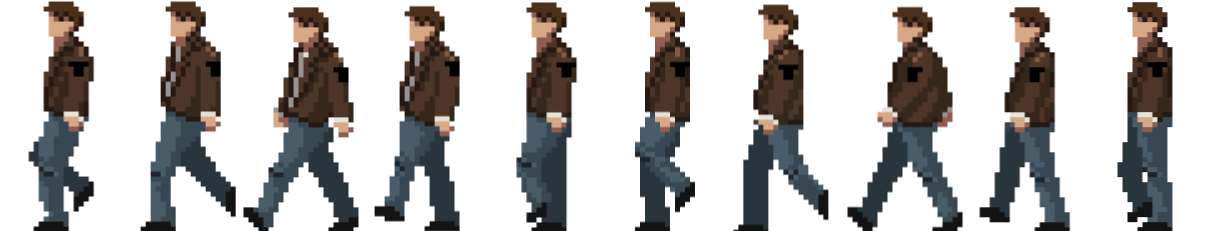
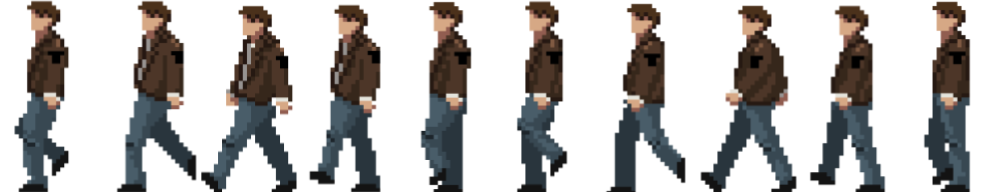
Animation frames

diff --git a/JavaScript_game/guy.js b/JavaScript_game/guy.js
@@ -1,77 +1,145 @@
 
-export {playerWidth, playerHeight, playerPosition, drawAnimatedPlayerImage };
+export { playerWidth, playerHeight, playerPosition, drawAnimatedPlayerImage };
 import {
-    dx, dy
-     } from "./input.js";
+  dx, dy
+} from "./input.js";
 
-    
-const playerStartFramesX = [0, 123, 246, 369, 492, 615, 738, 861, 984, 1107];
-const playerStartFramesY = [0, 231, 462, 693, 924];
+
+const playerStartFramesX = [0, 100, 200, 300, 400, 500, 600, 700, 800, 900];
+const playerStartFramesY = [0];
 const frameAmount = 10;
+let isMoving = false;
+let lookingLeft = true;
+const guyAnimationList = {
+  walkLeft: "/images/guy-walk-left.png",
+  walkRight: "/images/guy-walk-right.png",
+  idleLeft: "/images/guy-idle-left.png"
+};
 
 let canvas = document.getElementById("gameCanvas"); // Set initial value
 let ctx = canvas.getContext("2d");
 
 const player = new Image();
-player.src = "/images/guy-walk-right.png";
+player.src = guyAnimationList.idleLeft;
 
 // ............... PLAYER ............... //
-let playerWidth = 123;
-let playerHeight = 231;
+let playerWidth = 100;
+let playerHeight = 191;
 let startFrameIndex = 0;
 let timer = 0;
 
 const playerPosition = {
-    x: 0,
-    y: 0
-  };
+  x: 0,
+  y: 0
+};
 
+function controlPlayerX(positionX) {
+  if(!isMoving) {
+  if (lookingLeft) {
+    return positionX;
+  } else {
+    return -positionX-player.width/2; // Otherwise it translates the player too far from the current x-position
+  }
+}
+else {
+  return positionX;
+}
+
+}
 function drawAnimatedPlayerImage(x, y) {
   // INFO: Clear the drawn image in one frame using the area defined with parameters:
   ctx.clearRect(x, y, playerWidth, playerHeight);
 
   playerWidth = 60;
   playerHeight = 60;
+
   let yIndex;
+
   switch (true) {
-    case dy < 0:
-      yIndex = 1;
-      break;
-    case dy > 0:
-      yIndex = 2;
-      break;
-    case dx < 0:
+    case dx < -0.01:
+      console.log("left" + "dx: " + dx);
+      lookingLeft = true;
+      isMoving = true;
       yIndex = 0; // Left animation
-      player.src = "/images/guy-walk-left.png";
+      if (player.src !== guyAnimationList.walkLeft) {
+        player.src = guyAnimationList.walkLeft;
+      }
       break;
-    case dx > 0:
+    case dx > 0.01:
+      console.log("right" + "dx: " + dx);
+      lookingLeft = false;
+      isMoving = true;
       yIndex = 0; // Right animation
-      player.src = "/images/guy-walk-right.png";
+      if (player.src !== guyAnimationList.walkRight) {
+        player.src = guyAnimationList.walkRight;
+      }
       break;
     default:
+      console.log("idle!" + "dx: " + dx + " lookingLeft = " + lookingLeft);
+      isMoving = false;
+      x
       yIndex = 0; // Default animation (no movement)
+      startFrameIndex = 0;
+      if (player.src !== guyAnimationList.idleLeft) {
+        player.src = guyAnimationList.idleLeft;
+      }
+
       break;
   }
+
+  ctx.save();
+  if(!isMoving) {
+  if (lookingLeft) {
+    ctx.scale(1, 1);
+  }
+  else {
+    ctx.scale(-1, 1);// Flip horizontally
+  }
+}
+
+  //ctx.translate(-canvas.width, 0); // Adjust for flipped image
   ctx.drawImage(
     player,
     playerStartFramesX[startFrameIndex],
     playerStartFramesY[yIndex],
-    123,
-    231,
-    x,
-    y,
+    100,
+    191,
+    controlPlayerX(x),
+    300,
     playerWidth,
     playerHeight
   );
 
-  // Create animation on the lower Player:
-  timer++;
-  if (timer >= 10) {
-    timer = 0;
-    startFrameIndex++;
+  ctx.restore(); // Restore the state
+  // Loop animation frames
+  // We avoid the moonwalk by reversing the frame calculation on walking left 
+  // (since it's a mirror image of walking right)
+  if (isMoving) {
+    timer++;
+    if (timer >= 10) {
+      timer = 0;
+      if (lookingLeft) {
+        startFrameIndex--;
+        if (startFrameIndex < 0) {
+          startFrameIndex = frameAmount - 1;
+        }
+      } else {
+        startFrameIndex++;
+        if (startFrameIndex >= frameAmount) {
+          startFrameIndex = 0;
+        }
+      }
+    }
   }
 
-  if (startFrameIndex == 10) {
-    startFrameIndex = 0;
-  }
+  // if (isMoving) {
+  //   timer++;
+  //   if (timer >= 10) {
+  //     timer = 0;
+  //     startFrameIndex++;
+  //   }
+  //   if (startFrameIndex === frameAmount) {
+  //     startFrameIndex = 0;
+  //   }
+  // }
 }

diff --git a/JavaScript_game/javascript.js b/JavaScript_game/javascript.js
@@ -1,31 +1,5 @@
-//alert(word); 
-
-let word = "Huhheijaa!";
-const fixedWord = "Laki";
-
-let isAlive = true;
-
-let magicNumber = 0;
-console.log(magicNumber);
-magicNumber = magicNumber + 24; // lisätään 0:aan 24
-console.log(magicNumber);
-magicNumber++; // lisätään ykkönen
-console.log(magicNumber);
-magicNumber--; // vähennetään ykkönen
-console.log(magicNumber);
-
-function PopUpper() {
-    //alert(magicNumber);
-
-for(i=0;i<100;i++) {
-    console.log(magicNumber);
-}
-
-}
-function DivController() {
-    document.getElementById("middlediv").style.height = "400px";
-    document.getElementById("middlediv").style.backgroundColor = "#000100";
-}
-//PopUpper();
-
-
+window.addEventListener('load', (event) => {
+    document.body.style.display = 'block';
+    document.getElementById('gameCanvas').style.display = 'block';
+    console.log("Document loaded");
+});

diff --git a/JavaScript_game/style.css b/JavaScript_game/style.css
@@ -6,6 +6,10 @@ body, html {
     overflow: hidden;
     background-color: rgb(23, 23, 73);
 }
+body {
+    display: none;
+}
+
 
 #middlediv {
     width : inherit;
@@ -15,16 +19,16 @@ body, html {
 }
 
 #gameCanvas {
-    display: block;
+    display: none;
     margin: 0 auto;
-    width: 100%;
-    height: 100%;
+    width: 1200px;
+    height: 950px;
     border: 5px solid black;
     /* background-color: rgb(64, 26, 26); */
     /*Backgroundissa voi olla useampia layereita: */
     background: linear-gradient(
-         rgba(255, 4, 4, 0.5), rgba(255, 0, 242, 0.9))
-    , url(background.jpg);
+         rgba(243, 243, 243, 0), rgba(78, 94, 236, 0))
+    , url(/images/background-images/forest.jpeg);
 }
 
 #middlediv:hover {

diff --git a/JavaScript_game/javascript-testin.js b/JavaScript_game/javascript-testin.js
@@ -1,0 +1,31 @@
+//alert(word); 
+
+let word = "Huhheijaa!";
+const fixedWord = "Laki";
+
+let isAlive = true;
+
+let magicNumber = 0;
+console.log(magicNumber);
+magicNumber = magicNumber + 24; // lisätään 0:aan 24
+console.log(magicNumber);
+magicNumber++; // lisätään ykkönen
+console.log(magicNumber);
+magicNumber--; // vähennetään ykkönen
+console.log(magicNumber);
+
+function PopUpper() {
+    //alert(magicNumber);
+
+for(i=0;i<100;i++) {
+    console.log(magicNumber);
+}
+
+}
+function DivController() {
+    document.getElementById("middlediv").style.height = "400px";
+    document.getElementById("middlediv").style.backgroundColor = "#000100";
+}
+//PopUpper();
+
+

diff --git a/JavaScript_game/input.js b/JavaScript_game/input.js
@@ -5,8 +5,8 @@ export { handleKeyUp, handleKeyDown, applyFriction };
 
 // Set the acceleration and maximum speed of the player
 export const acceleration = 0.8;
-export const maxSpeed = 2;
-export let friction = 1; // Friction factor for gradual deceleration
+export const maxSpeed = 0.8;
+export let friction = 0.8; // Friction factor for gradual deceleration
 
 
 // Function to handle keydown events
@@ -49,7 +49,7 @@ function handleKeyUp(event) {
     event.key === "ArrowRight"
   ) {
 
-    friction = 0.75; // Apply friction when a key is released
+    friction = 0; // Apply friction when a key is released (zero out)
     }
   }
 

diff --git a/JavaScript_game/index.html b/JavaScript_game/index.html
@@ -5,11 +5,11 @@
     <meta name="viewport" content="width=device-width, initial-scale=1.0">
     <title>Awesome webpage</title>
     <link rel="icon" type="image/png" href="../images/favicon-16x16.png">
-    <link rel="stylesheet" href="style.css">
+    <script src="javascript.js" type="module"></script>
     <script src="game.js" type="module"></script>
     <script src="input.js" type="module"></script>
+    <link rel="stylesheet" href="style.css">
 
-    </script>
 </head>
 <body>
 <div id="middlediv">
